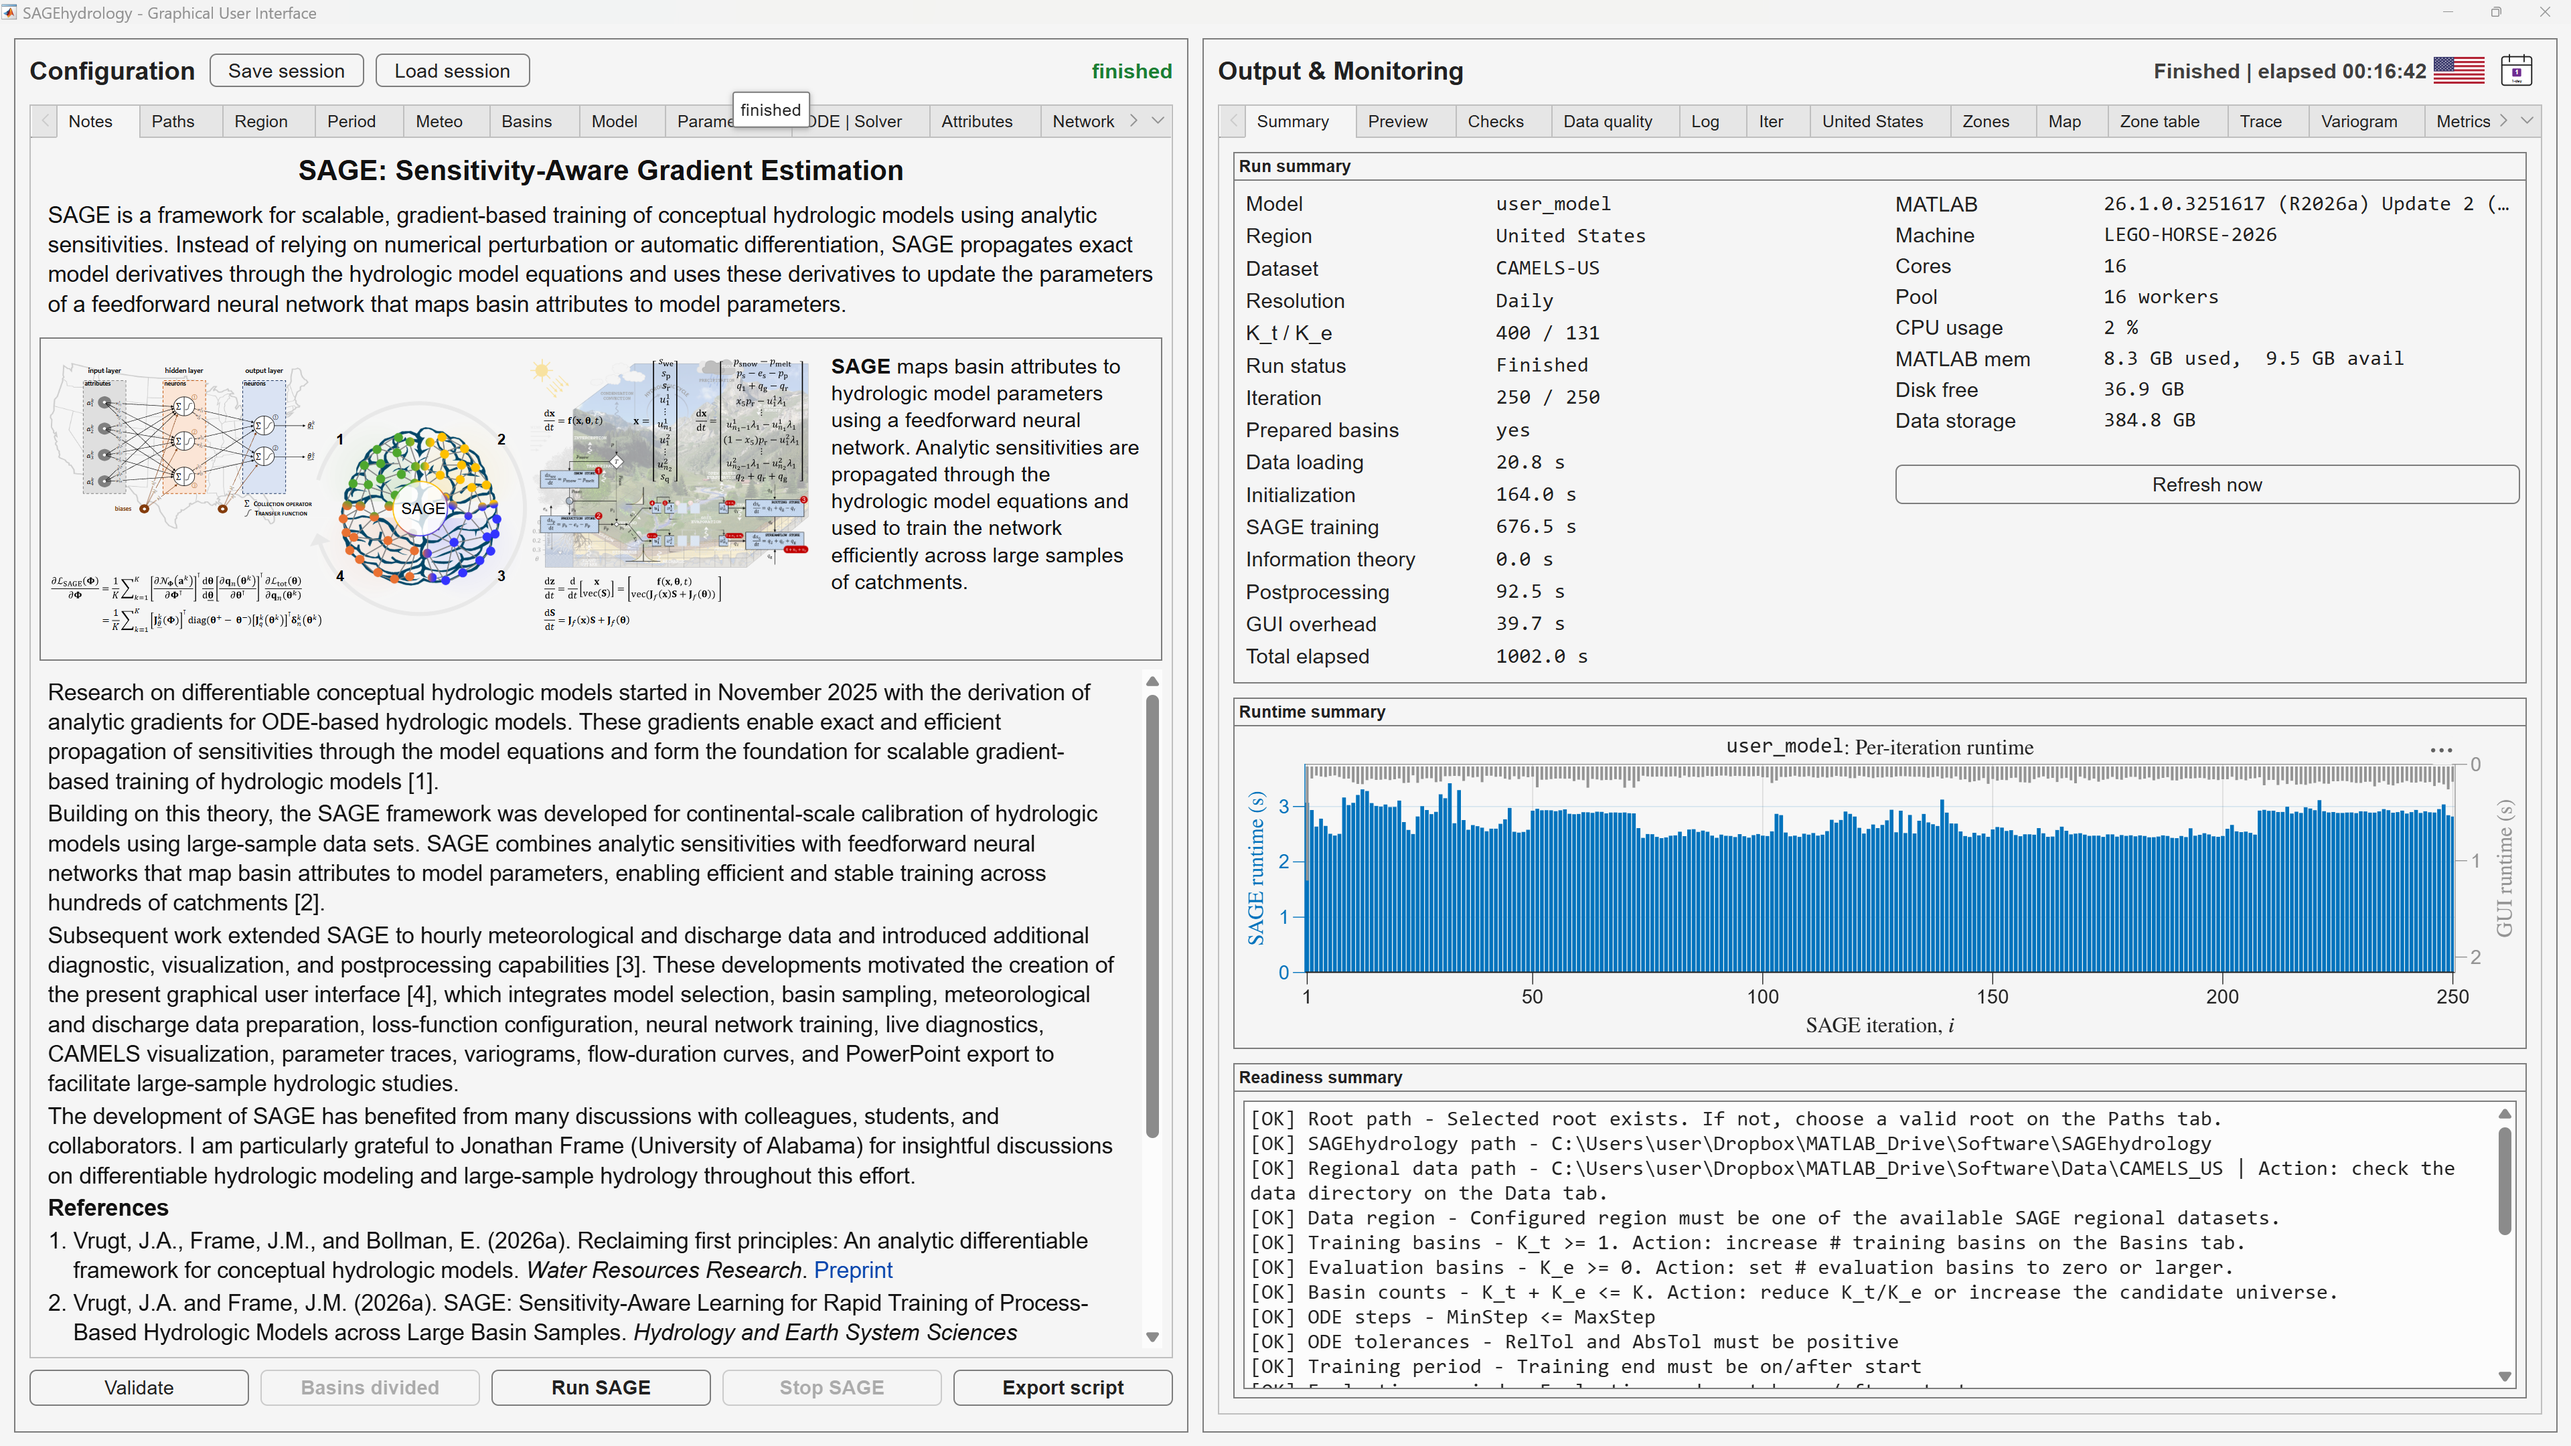
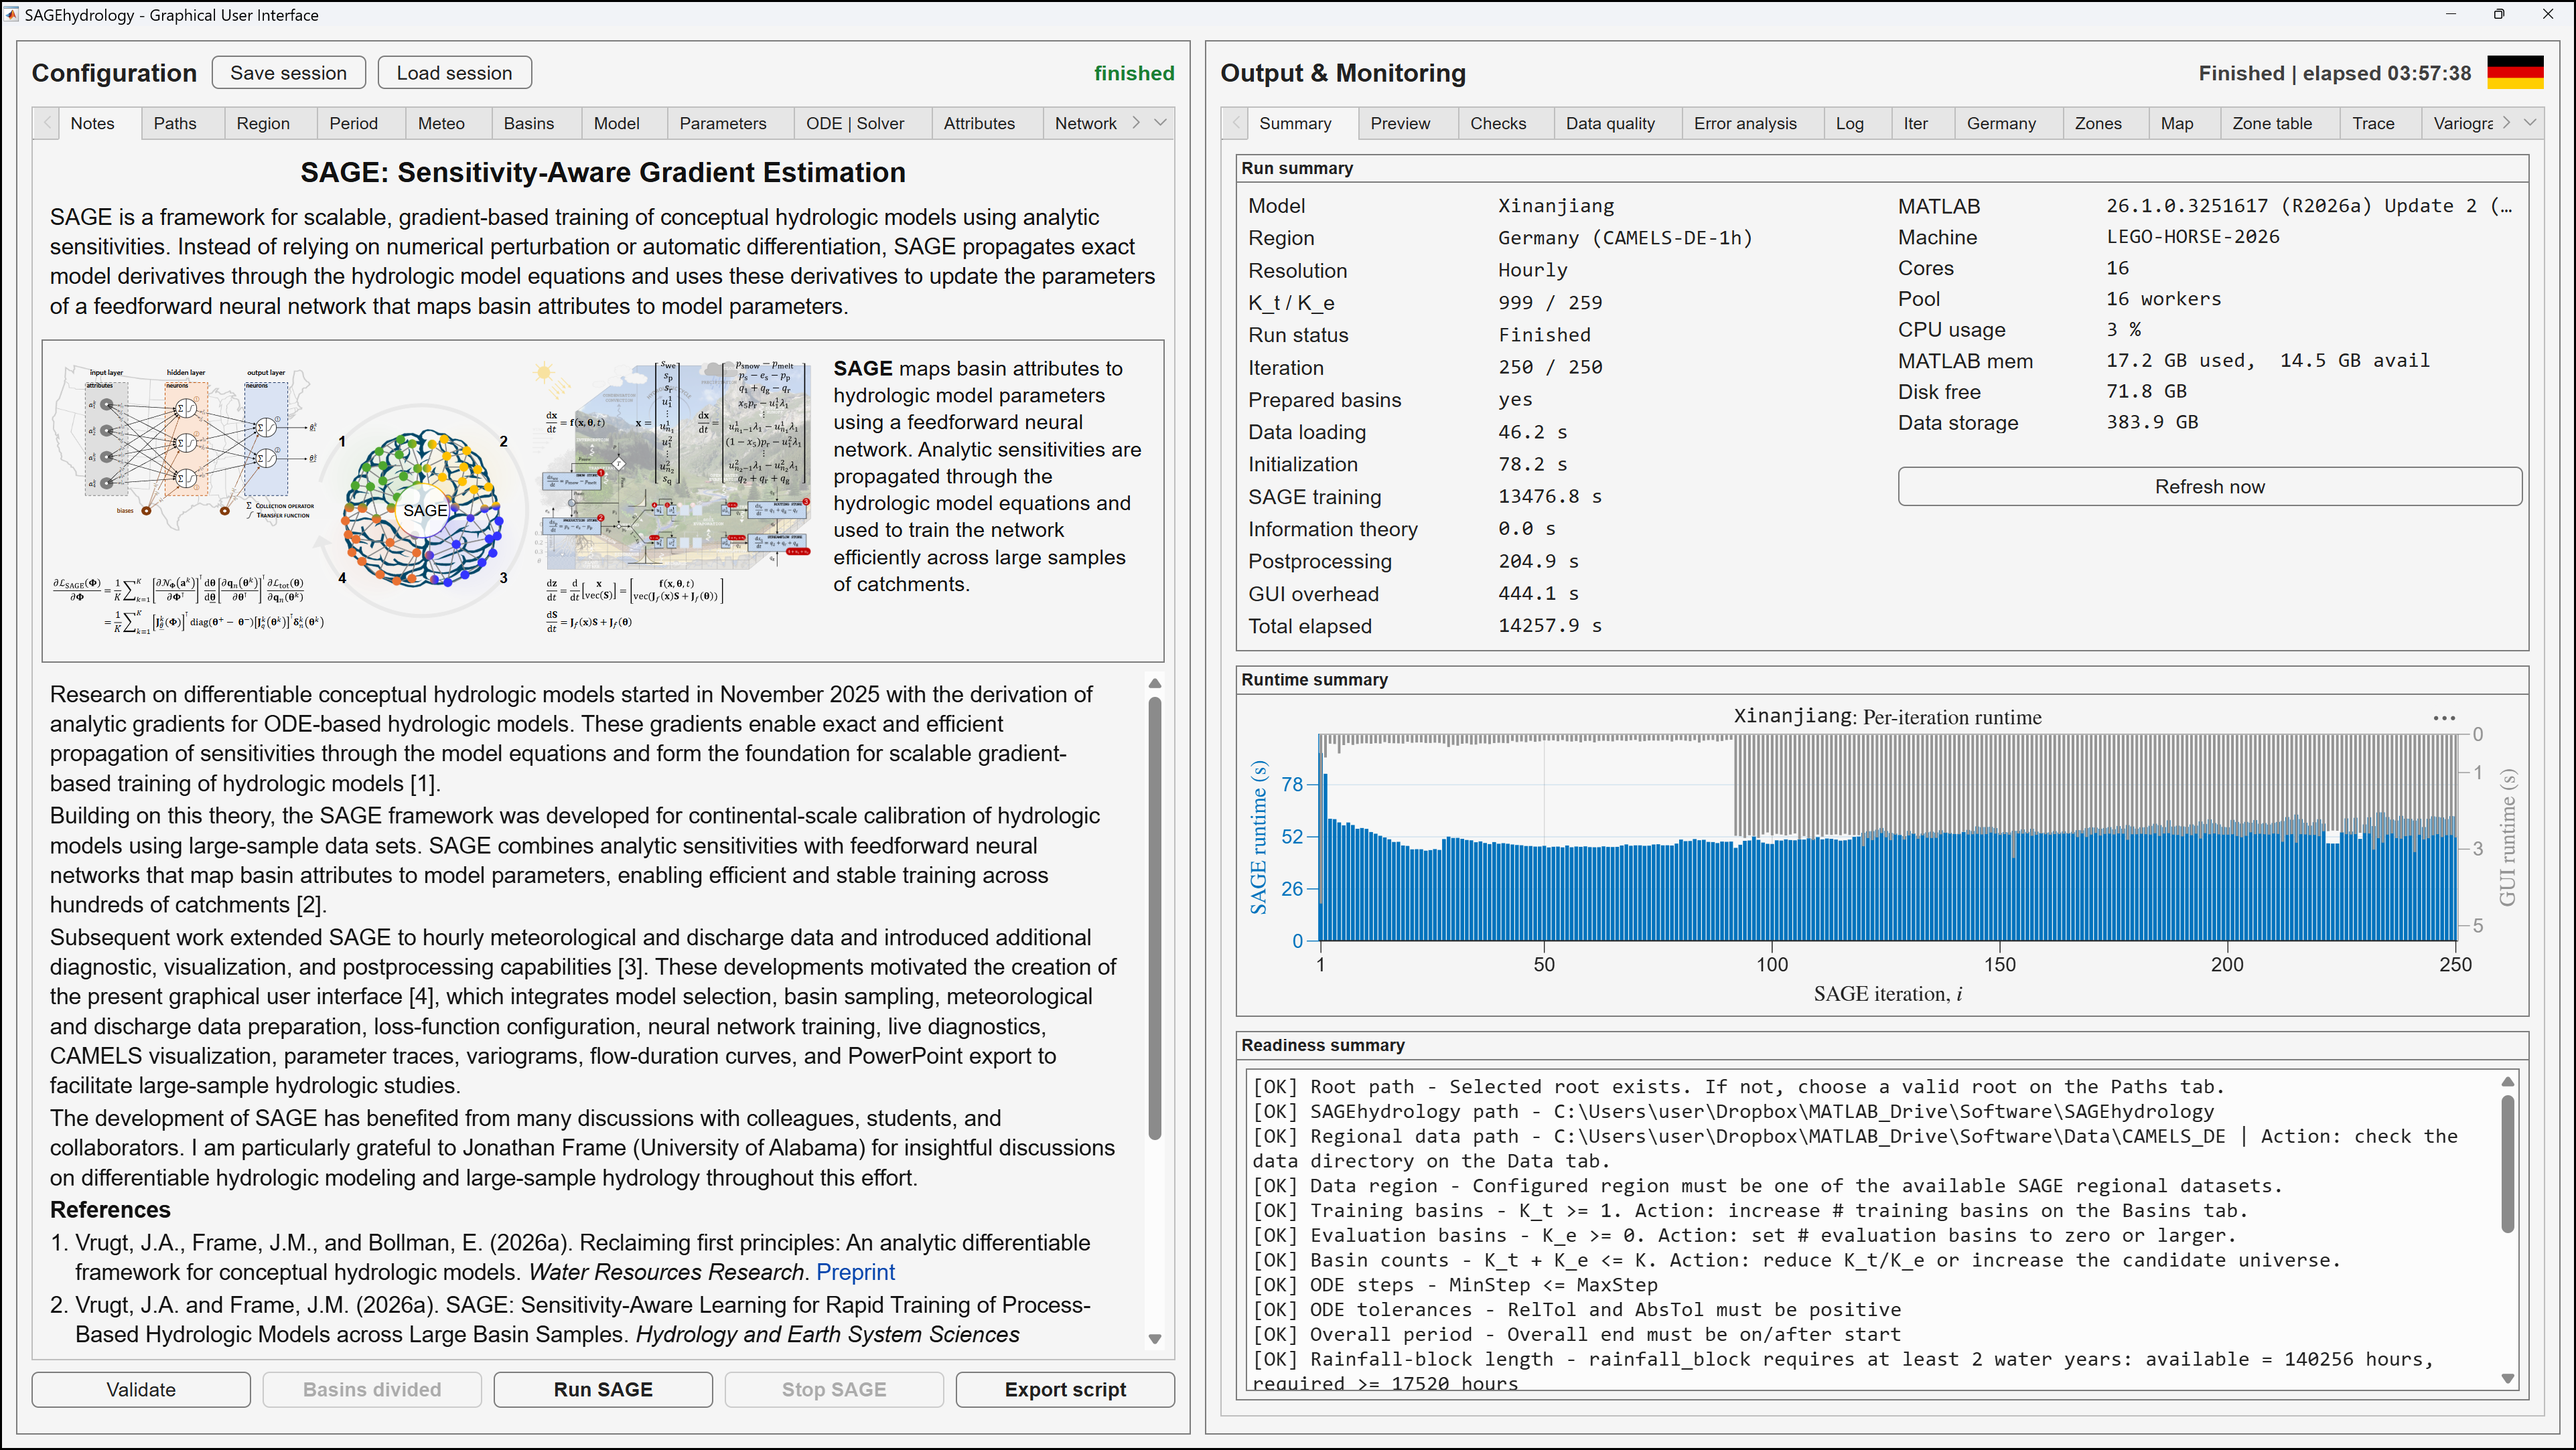
Expand README GUI gallery

diff --git a/README.md b/README.md
@@ -4,7 +4,7 @@ Sensitivity-Aware Gradient Estimation (SAGE) is a framework for scalable,
 attribute-conditioned training of conceptual hydrologic models using analytic
 forward sensitivities.
 
-[![SAGE graphical interface: notes and completed-run summary](docs/images/sage-notes-run-summary.png)](docs/images/sage-notes-run-summary.png)
+[![SAGE graphical interface and completed hourly hydrologic-model training run](docs/images/sage-notes-run-summary.png)](docs/images/sage-notes-run-summary.png)
 
 This repository contains the public computational source for SAGEhydrology.
 The graphical user interface is distributed as a compiled application through
@@ -51,6 +51,8 @@ applies the directory and naming conventions expected by SAGE, and prepares
 the data for basin selection and quality screening. Manual data installation
 remains available for users who already maintain local dataset copies.
 
+[![SAGE regional data installation and training/evaluation basin selection](docs/images/sage-data-installation-basin-map.png)](docs/images/sage-data-installation-basin-map.png)
+
 ### MATLAB source
 
 1. Clone or download this repository.
@@ -60,6 +62,8 @@ remains available for users who already maintain local dataset copies.
    the configuration before running it.
 4. Compile platform-specific MEX kernels when required by the selected model
    and execution backend.
+
+[![SAGE-generated MATLAB export containing a reproducible training configuration](docs/images/sage-matlab-export-script.png)](docs/images/sage-matlab-export-script.png)
 
 The software does not bundle or redistribute CAMELS and other regional
 datasets inside the source repository or application installer. Instead, the
